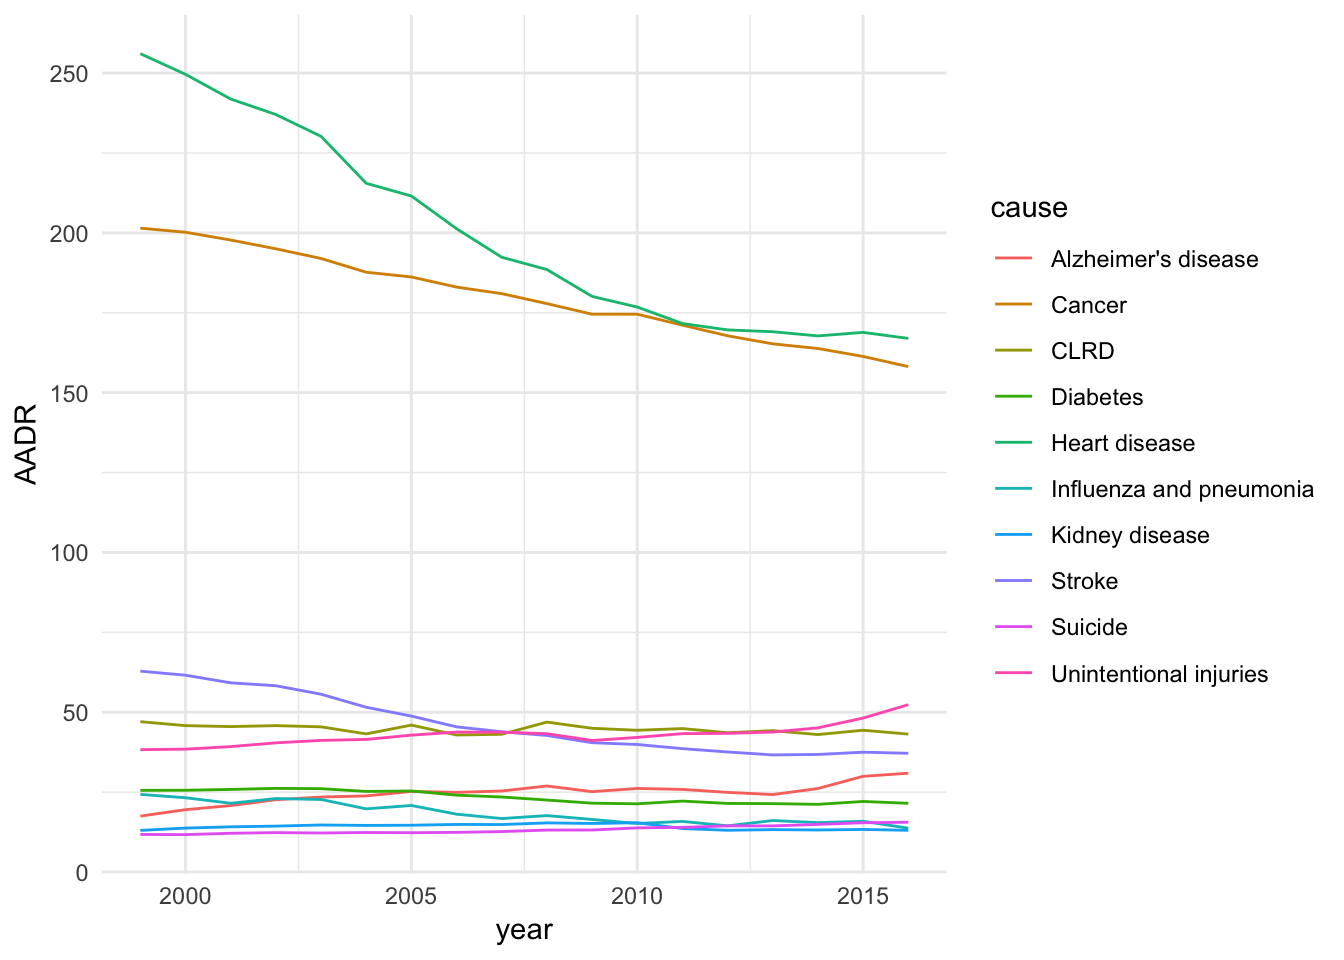
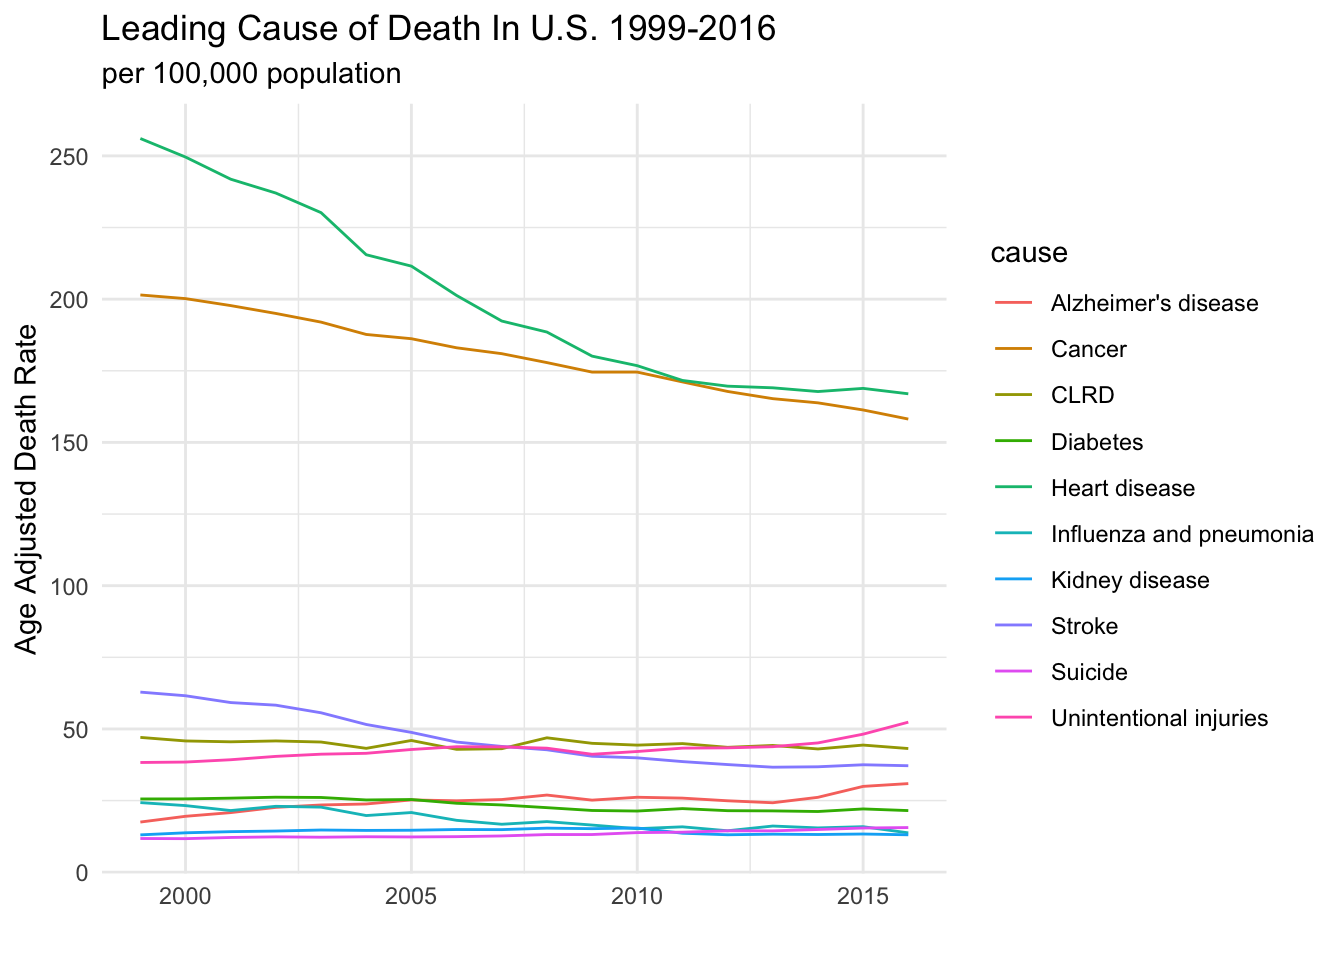
some change on second articles

diff --git a/public/blog/leading-cause-of-death-in-the-united-states/index.html b/public/blog/leading-cause-of-death-in-the-united-states/index.html
@@ -1091,9 +1091,9 @@ margin-left: -4%;
     
 
 
-<p>In this post I want to review the trend of leading causes of deaths in United States. Specially how fast the age adjusted rate decase in each state. The data come from <a href="https://data.cdc.gov/NCHS/NCHS-Leading-Causes-of-Death-United-States/bi63-dtpu">CDC</a>. The main numer I will use in this post in <a href="https://health.mo.gov/data/mica/CDP_MICA/AARate.html">age-adjusted death rates</a>.</p>
-<div id="pacakge-and-data" class="section level1">
-<h1>Pacakge and Data</h1>
+<p>In this post I want to review the trend of leading causes of deaths in United States. Specially how fast the age adjusted rate decase in each state. The data come from <a href="https://data.cdc.gov/NCHS/NCHS-Leading-Causes-of-Death-United-States/bi63-dtpu">CDC</a>. The main variable I try to analysis in this post is <a href="https://health.mo.gov/data/mica/CDP_MICA/AARate.html">age-adjusted death rates</a>.</p>
+<div id="pacakge-and-data" class="section level3">
+<h3>Pacakge and Data</h3>
 <pre class="r"><code>library(tidyverse)
 library(jsonlite)
 library(fuzzyjoin)
@@ -1101,8 +1101,11 @@ library(transformr) # devtools::install_github(&quot;thomasp85/transformr&quot;)
 library(sf)
 library(gganimate)
 library(geofacet)
-theme_set(theme_minimal())</code></pre>
-<pre class="r"><code>death_data &lt;- read_csv(&quot;/Users/yifeiliu/Documents/R/data/EDA/leading_death.csv&quot;)
+library(ggrepel)
+
+theme_set(theme_minimal())
+
+death_data &lt;- read_csv(&quot;/Users/yifeiliu/Documents/R/data/EDA/leading_death.csv&quot;)
 
 death_data &lt;- death_data %&gt;%
   dplyr::rename(year = Year, 
@@ -1112,32 +1115,35 @@ death_data &lt;- death_data %&gt;%
                 deaths = Deaths, 
                 aadr = `Age-adjusted Death Rate`)
 
+
 death_data_processed &lt;- death_data %&gt;%
   select(- all_cause) %&gt;%
   dplyr::filter(!cause == &quot;All causes&quot;,
-                !str_detect(state, &quot;United&quot;))
-
-pop_data_2010 &lt;- get_decennial(geography = &quot;state&quot;,
-                          variables = &quot;P001001&quot;,
-                          geometry = T,
-                          year = 2010,
-                          shift_geo = T)
+                !str_detect(state, &quot;United&quot;))</code></pre>
+<p>Since we have the state information, we can use <em>tidycensus</em> packge to obtain spatial file and merge those togher.</p>
+<pre class="r"><code>pop_data_2010 &lt;- get_decennial(geography = &quot;state&quot;,
+                               variables = &quot;P001001&quot;,
+                               geometry = T,
+                               year = 2010,
+                               shift_geo = T)
 
 states &lt;- pop_data_2010 %&gt;%
   select(NAME, geometry) %&gt;%
   setNames(c(&quot;state&quot;, &quot;geometry&quot;))
-
-
 death_data_geo &lt;- merge(states, death_data, by = &quot;state&quot;)</code></pre>
-<div id="basic-summary" class="section level3">
-<h3>Basic Summary</h3>
+</div>
+<div id="explore-the-dataset" class="section level3">
+<h3>Explore the dataset</h3>
 <p>We can take a look at the leading cuase of people death during those years</p>
 <pre class="r"><code>death_data_processed %&gt;%
   group_by(year, cause) %&gt;%
   dplyr::summarise(avg_death = mean(aadr)) %&gt;%
   ggplot(aes(year, avg_death, color = cause)) +
   geom_line() +
-  labs(y = &quot;AADR&quot;)</code></pre>
+  labs(y = &quot;Age Adjusted Death Rate&quot;,
+       subtitle = &quot;per 100,000 population&quot;,
+       x = &quot;&quot;,
+       title = &quot;Leading Cause of Death In U.S. 1999-2016&quot;)</code></pre>
 <p><img src="/blog/2018-11-28-leading-cause-of-death-in-the-united-states_files/figure-html/unnamed-chunk-3-1.png" width="672" /></p>
 <pre class="r"><code>death_data %&gt;%
   mutate(year = as.integer(year)) %&gt;%
@@ -1155,8 +1161,8 @@ death_data_geo &lt;- merge(states, death_data, by = &quot;state&quot;)</code></p
   ease_aes(&#39;linear&#39;)</code></pre>
 <p><img src="/blog/2018-11-28-leading-cause-of-death-in-the-united-states_files/figure-html/unnamed-chunk-3-1.gif" /><!-- --></p>
 </div>
-<div id="visualize-change-in-aadr" class="section level3">
-<h3>Visualize change in AADR</h3>
+<div id="visualize-change-in-age-adjusted-death-rate" class="section level3">
+<h3>Visualize change in age adjusted death rate</h3>
 <p>Aggregated across state and year, see which state death rate increase or decrease</p>
 <pre class="r"><code>death_data_spread &lt;- death_data_processed %&gt;%
   dplyr::mutate(year = paste0(&quot;Y&quot;, year)) %&gt;%
@@ -1173,13 +1179,13 @@ death_data_spread  %&gt;%
   select(state, current, change) %&gt;%
   ggplot(aes(current, change)) +
   geom_point() +
-  geom_text(aes(label = state), vjust = 1, hjust = 1)</code></pre>
+  geom_text(aes(label = state), vjust = 1, hjust = 1, check_overlap = T)</code></pre>
 <p><img src="/blog/2018-11-28-leading-cause-of-death-in-the-united-states_files/figure-html/unnamed-chunk-4-1.png" width="672" /></p>
 <p>We can visualize the chagne see which place in United State have the highest AADR drop.</p>
 <pre class="r"><code>death_data_spread  %&gt;%
   select(state, change) %&gt;%
-  inner_join(states) %&gt;%
-   ggplot() +
+  inner_join(states, by = &quot;state&quot;) %&gt;%
+  ggplot() +
   geom_sf(aes(fill = change)) +
   coord_sf(crs = 26910) +
   labs(title = &quot;Change of Death Rate&quot;,
@@ -1192,7 +1198,7 @@ death_data_spread  %&gt;%
   group_by(year, state) %&gt;%
   dplyr::summarise(avg_death = mean(aadr)) %&gt;%
   mutate(year = as.integer(year)) %&gt;%
-  inner_join(states) %&gt;%
+  inner_join(states, by = &quot;state&quot;) %&gt;%
   ggplot() +
   geom_sf(aes(fill = avg_death)) +
   coord_sf(crs = 26910) +
@@ -1216,6 +1222,14 @@ death_data_spread  %&gt;%
        caption = &quot;@yifeiliu Source: Center for Disease Control and Prevention&quot;)</code></pre>
 <p><img src="/blog/2018-11-28-leading-cause-of-death-in-the-united-states_files/figure-html/unnamed-chunk-5-3.png" width="672" /></p>
 </div>
+<div id="the-end" class="section level3">
+<h3>The End</h3>
+<p>After visualize the data, we can draw some conclusion.</p>
+<ul>
+<li>the main causes of death are <em>heart disease</em> and <em>cancer</em>.</li>
+<li>age adjusted death rate is decline in all states from 1999 to 2016</li>
+<li>some state age adjusted death rate better the soem other state.</li>
+</ul>
 </div>
 
 

diff --git a/content/blog/2018-11-28-leading-cause-of-death-in-the-united-states.html b/content/blog/2018-11-28-leading-cause-of-death-in-the-united-states.html
@@ -17,9 +17,9 @@ meta_img: /images/image.jpg
 
 
 
-<p>In this post I want to review the trend of leading causes of deaths in United States. Specially how fast the age adjusted rate decase in each state. The data come from <a href="https://data.cdc.gov/NCHS/NCHS-Leading-Causes-of-Death-United-States/bi63-dtpu">CDC</a>. The main numer I will use in this post in <a href="https://health.mo.gov/data/mica/CDP_MICA/AARate.html">age-adjusted death rates</a>.</p>
-<div id="pacakge-and-data" class="section level1">
-<h1>Pacakge and Data</h1>
+<p>In this post I want to review the trend of leading causes of deaths in United States. Specially how fast the age adjusted rate decase in each state. The data come from <a href="https://data.cdc.gov/NCHS/NCHS-Leading-Causes-of-Death-United-States/bi63-dtpu">CDC</a>. The main variable I try to analysis in this post is <a href="https://health.mo.gov/data/mica/CDP_MICA/AARate.html">age-adjusted death rates</a>.</p>
+<div id="pacakge-and-data" class="section level3">
+<h3>Pacakge and Data</h3>
 <pre class="r"><code>library(tidyverse)
 library(jsonlite)
 library(fuzzyjoin)
@@ -27,8 +27,11 @@ library(transformr) # devtools::install_github(&quot;thomasp85/transformr&quot;)
 library(sf)
 library(gganimate)
 library(geofacet)
-theme_set(theme_minimal())</code></pre>
-<pre class="r"><code>death_data &lt;- read_csv(&quot;/Users/yifeiliu/Documents/R/data/EDA/leading_death.csv&quot;)
+library(ggrepel)
+
+theme_set(theme_minimal())
+
+death_data &lt;- read_csv(&quot;/Users/yifeiliu/Documents/R/data/EDA/leading_death.csv&quot;)
 
 death_data &lt;- death_data %&gt;%
   dplyr::rename(year = Year, 
@@ -38,32 +41,35 @@ death_data &lt;- death_data %&gt;%
                 deaths = Deaths, 
                 aadr = `Age-adjusted Death Rate`)
 
+
 death_data_processed &lt;- death_data %&gt;%
   select(- all_cause) %&gt;%
   dplyr::filter(!cause == &quot;All causes&quot;,
-                !str_detect(state, &quot;United&quot;))
-
-pop_data_2010 &lt;- get_decennial(geography = &quot;state&quot;,
-                          variables = &quot;P001001&quot;,
-                          geometry = T,
-                          year = 2010,
-                          shift_geo = T)
+                !str_detect(state, &quot;United&quot;))</code></pre>
+<p>Since we have the state information, we can use <em>tidycensus</em> packge to obtain spatial file and merge those togher.</p>
+<pre class="r"><code>pop_data_2010 &lt;- get_decennial(geography = &quot;state&quot;,
+                               variables = &quot;P001001&quot;,
+                               geometry = T,
+                               year = 2010,
+                               shift_geo = T)
 
 states &lt;- pop_data_2010 %&gt;%
   select(NAME, geometry) %&gt;%
   setNames(c(&quot;state&quot;, &quot;geometry&quot;))
-
-
 death_data_geo &lt;- merge(states, death_data, by = &quot;state&quot;)</code></pre>
-<div id="basic-summary" class="section level3">
-<h3>Basic Summary</h3>
+</div>
+<div id="explore-the-dataset" class="section level3">
+<h3>Explore the dataset</h3>
 <p>We can take a look at the leading cuase of people death during those years</p>
 <pre class="r"><code>death_data_processed %&gt;%
   group_by(year, cause) %&gt;%
   dplyr::summarise(avg_death = mean(aadr)) %&gt;%
   ggplot(aes(year, avg_death, color = cause)) +
   geom_line() +
-  labs(y = &quot;AADR&quot;)</code></pre>
+  labs(y = &quot;Age Adjusted Death Rate&quot;,
+       subtitle = &quot;per 100,000 population&quot;,
+       x = &quot;&quot;,
+       title = &quot;Leading Cause of Death In U.S. 1999-2016&quot;)</code></pre>
 <p><img src="/blog/2018-11-28-leading-cause-of-death-in-the-united-states_files/figure-html/unnamed-chunk-3-1.png" width="672" /></p>
 <pre class="r"><code>death_data %&gt;%
   mutate(year = as.integer(year)) %&gt;%
@@ -81,8 +87,8 @@ death_data_geo &lt;- merge(states, death_data, by = &quot;state&quot;)</code></p
   ease_aes(&#39;linear&#39;)</code></pre>
 <p><img src="/blog/2018-11-28-leading-cause-of-death-in-the-united-states_files/figure-html/unnamed-chunk-3-1.gif" /><!-- --></p>
 </div>
-<div id="visualize-change-in-aadr" class="section level3">
-<h3>Visualize change in AADR</h3>
+<div id="visualize-change-in-age-adjusted-death-rate" class="section level3">
+<h3>Visualize change in age adjusted death rate</h3>
 <p>Aggregated across state and year, see which state death rate increase or decrease</p>
 <pre class="r"><code>death_data_spread &lt;- death_data_processed %&gt;%
   dplyr::mutate(year = paste0(&quot;Y&quot;, year)) %&gt;%
@@ -99,13 +105,13 @@ death_data_spread  %&gt;%
   select(state, current, change) %&gt;%
   ggplot(aes(current, change)) +
   geom_point() +
-  geom_text(aes(label = state), vjust = 1, hjust = 1)</code></pre>
+  geom_text(aes(label = state), vjust = 1, hjust = 1, check_overlap = T)</code></pre>
 <p><img src="/blog/2018-11-28-leading-cause-of-death-in-the-united-states_files/figure-html/unnamed-chunk-4-1.png" width="672" /></p>
 <p>We can visualize the chagne see which place in United State have the highest AADR drop.</p>
 <pre class="r"><code>death_data_spread  %&gt;%
   select(state, change) %&gt;%
-  inner_join(states) %&gt;%
-   ggplot() +
+  inner_join(states, by = &quot;state&quot;) %&gt;%
+  ggplot() +
   geom_sf(aes(fill = change)) +
   coord_sf(crs = 26910) +
   labs(title = &quot;Change of Death Rate&quot;,
@@ -118,7 +124,7 @@ death_data_spread  %&gt;%
   group_by(year, state) %&gt;%
   dplyr::summarise(avg_death = mean(aadr)) %&gt;%
   mutate(year = as.integer(year)) %&gt;%
-  inner_join(states) %&gt;%
+  inner_join(states, by = &quot;state&quot;) %&gt;%
   ggplot() +
   geom_sf(aes(fill = avg_death)) +
   coord_sf(crs = 26910) +
@@ -142,4 +148,12 @@ death_data_spread  %&gt;%
        caption = &quot;@yifeiliu Source: Center for Disease Control and Prevention&quot;)</code></pre>
 <p><img src="/blog/2018-11-28-leading-cause-of-death-in-the-united-states_files/figure-html/unnamed-chunk-5-3.png" width="672" /></p>
 </div>
+<div id="the-end" class="section level3">
+<h3>The End</h3>
+<p>After visualize the data, we can draw some conclusion.</p>
+<ul>
+<li>the main causes of death are <em>heart disease</em> and <em>cancer</em>.</li>
+<li>age adjusted death rate is decline in all states from 1999 to 2016</li>
+<li>some state age adjusted death rate better the soem other state.</li>
+</ul>
 </div>

diff --git a/public/index.html b/public/index.html
@@ -2,7 +2,7 @@
 <html lang="en-US">
 
 <head>
-	<meta name="generator" content="Hugo 0.51" />
+	<meta name="generator" content="Hugo 0.52" />
 <meta charset="utf-8">
 <meta name="HandheldFriendly" content="True">
 <meta name="MobileOptimized" content="320">
